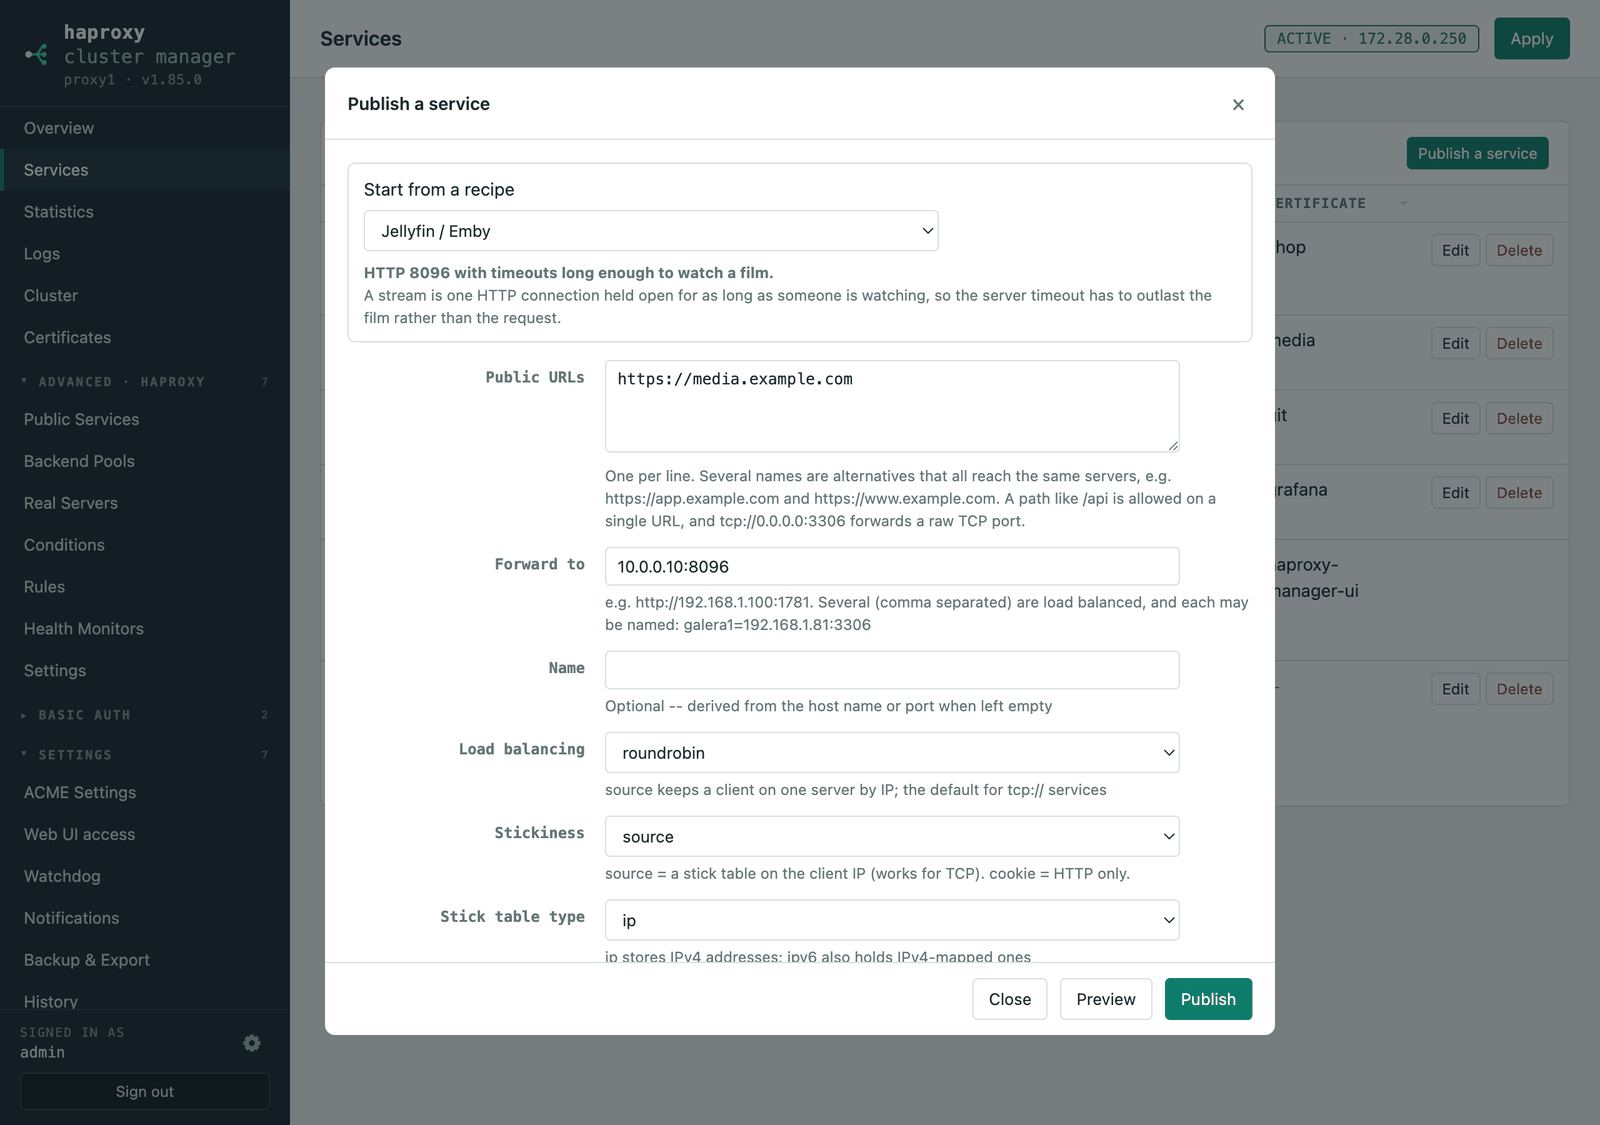
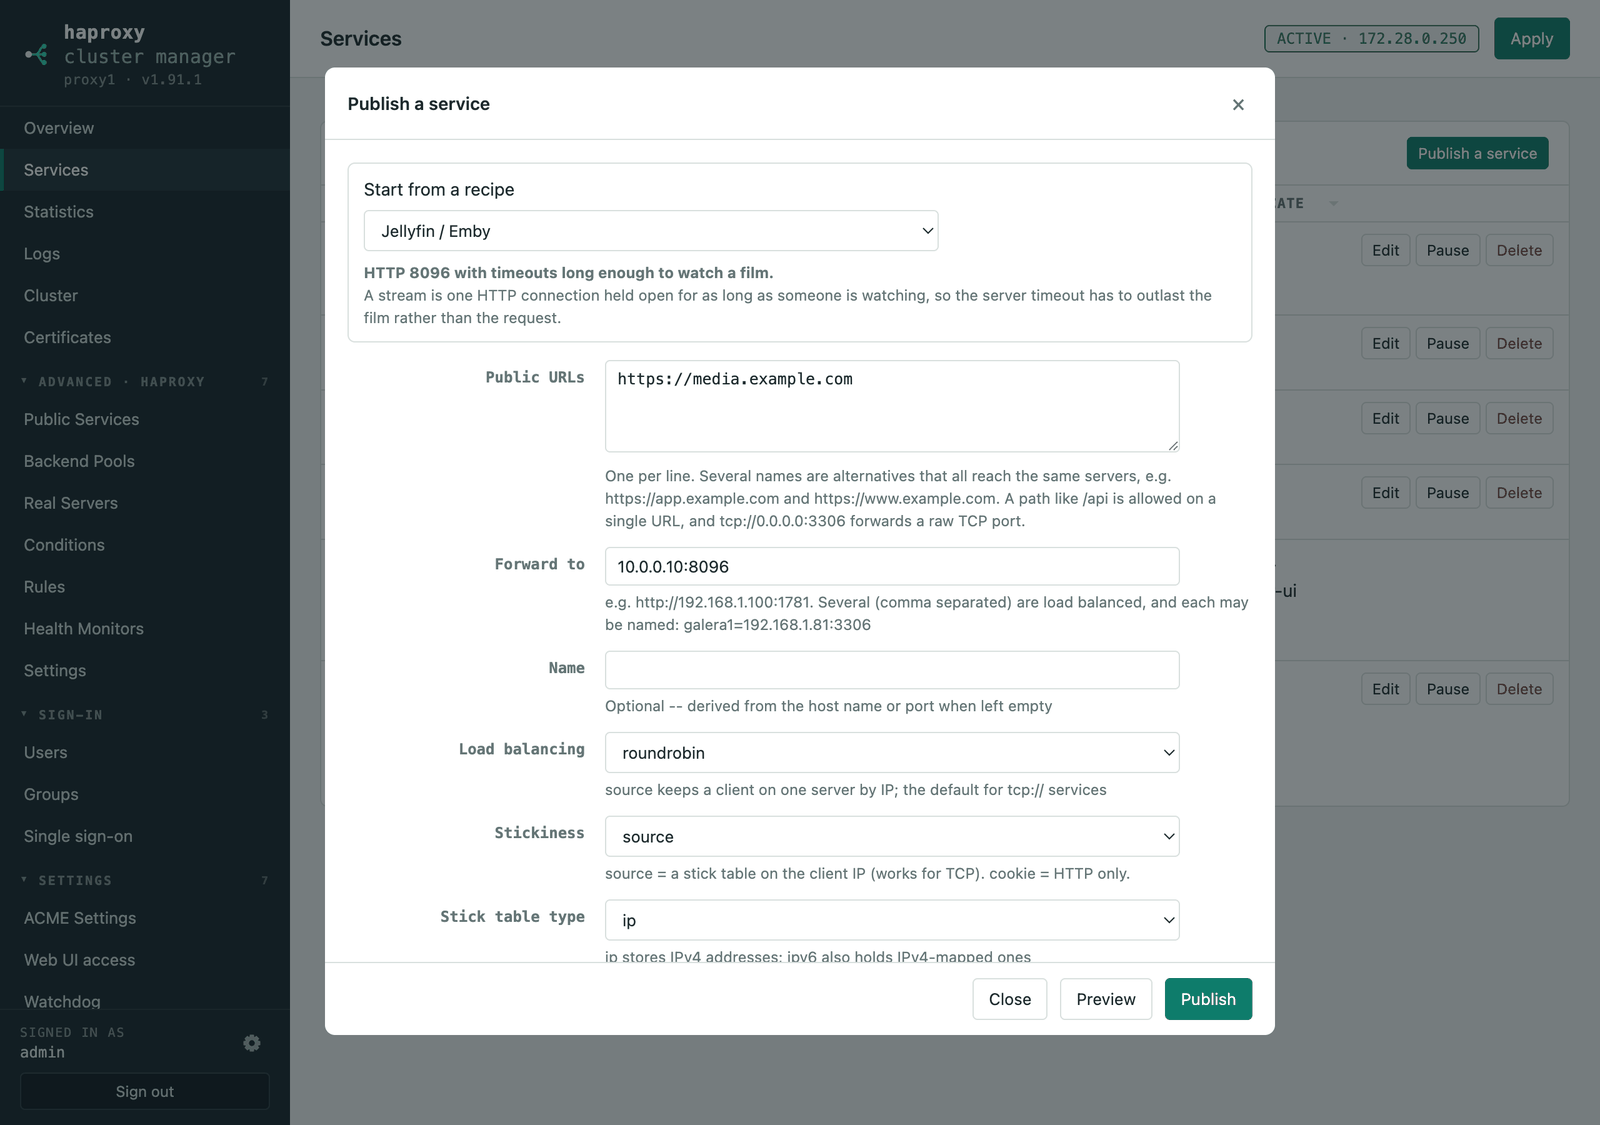
1.91.2: refresh the documentation screenshots
Re-shot against the current UI on the real three-node rig. The pictures
had drifted: the menu group is now Sign-in (was Basic auth), every service
carries a Pause button, and the whole single sign-on feature -- its own
page, and the 'sign-in via SSO' line on a protected service -- did not
exist when these were last taken.

The demo cluster now enables OIDC and protects one service with it, so the
new Single sign-on screenshot shows a configured provider and the services
list shows a service signed in through it. shoot.js gains the SSO page;
docs/authentication.md gains the screenshot.

Changed region(s): [[0.0, 0.6533, 0.0938, 0.9022], [0.7812, 0.4978, 0.8438, 0.5289], [0.8125, 0.1556, 0.8438, 0.1867]]

diff --git a/tools/screenshots/shoot.js b/tools/screenshots/shoot.js
@@ -21,6 +21,7 @@ const SHOTS = [
   { file: "watchdog",     hash: "#/p:watchdog",       wait: ".card" },
   { file: "webui",        hash: "#/p:webui",          wait: ".frm" },
   { file: "notifications", hash: "#/p:notify",        wait: ".card" },
+  { file: "sso",           hash: "#/p:sso",            wait: ".frm" },
   { file: "backends",     hash: "#/haproxy/backends", wait: "table" },
   { file: "history",      hash: "#/p:history",       wait: "table" },
 ];

diff --git a/docs/install-standalone.md b/docs/install-standalone.md
@@ -43,16 +43,16 @@ package mirrors.
 
 ```bash
 # Debian / Ubuntu
-curl -fsSLO https://github.com/avandeputte/haproxy-manager/releases/latest/download/haproxy-manager_1.91.1_all.deb
-sudo apt-get install -y ./haproxy-manager_1.91.1_all.deb
+curl -fsSLO https://github.com/avandeputte/haproxy-manager/releases/latest/download/haproxy-manager_1.91.2_all.deb
+sudo apt-get install -y ./haproxy-manager_1.91.2_all.deb
 
 # Fedora
-curl -fsSLO https://github.com/avandeputte/haproxy-manager/releases/latest/download/haproxy-manager-1.91.1-1.noarch.rpm
-sudo dnf install -y ./haproxy-manager-1.91.1-1.noarch.rpm
+curl -fsSLO https://github.com/avandeputte/haproxy-manager/releases/latest/download/haproxy-manager-1.91.2-1.noarch.rpm
+sudo dnf install -y ./haproxy-manager-1.91.2-1.noarch.rpm
 
 # RHEL / Rocky / Alma -- python3-flask and python3-waitress live in EPEL
 sudo dnf install -y epel-release
-sudo dnf install -y ./haproxy-manager-1.91.1-1.noarch.rpm
+sudo dnf install -y ./haproxy-manager-1.91.2-1.noarch.rpm
 ```
 
 The package installs and starts the service, prints the generated

diff --git a/README.md b/README.md
@@ -8,7 +8,7 @@ over, with settings and certificates syncing across all of them.
 
 ```bash
 # from a package: .deb and .rpm on every release (Debian, Ubuntu, RHEL, Fedora)
-sudo apt-get install -y ./haproxy-manager_1.91.1_all.deb
+sudo apt-get install -y ./haproxy-manager_1.91.2_all.deb
 
 # or the install script, on any Debian-based server
 curl -fsSL https://raw.githubusercontent.com/avandeputte/haproxy-manager/main/install.sh | sudo bash

diff --git a/docs/install-docker.md b/docs/install-docker.md
@@ -28,7 +28,7 @@ Ampere instance; Docker picks the right one.
 
 ```
 ghcr.io/avandeputte/haproxy-manager:latest    the tip of main
-ghcr.io/avandeputte/haproxy-manager:1.91.1      a specific version
+ghcr.io/avandeputte/haproxy-manager:1.91.2      a specific version
 ghcr.io/avandeputte/haproxy-manager:sha-abc…  one exact commit
 ```
 

diff --git a/docs/authentication.md b/docs/authentication.md
@@ -114,6 +114,8 @@ service; who may enter stays a per-service decision.
 
 ### Setting it up
 
+<img src="img/sso.png" alt="The Single sign-on page: the provider connected, with the redirect URI to register and per-provider setup steps" width="900">
+
 **Sign-in → Single sign-on** holds the provider, once:
 
 | Setting | Notes |
